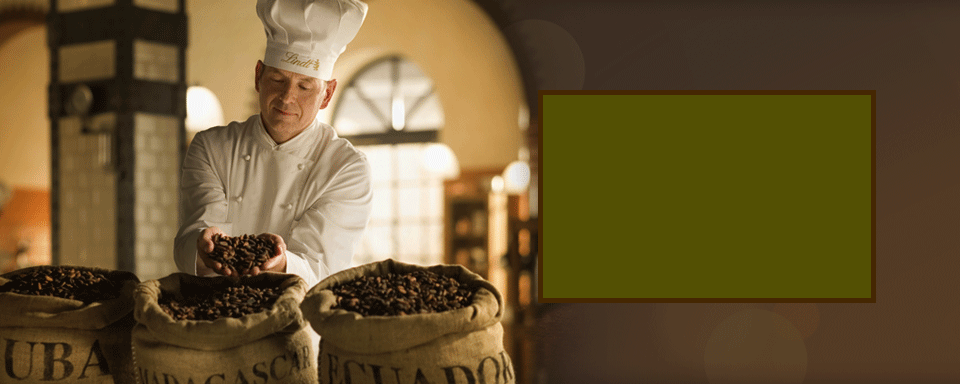
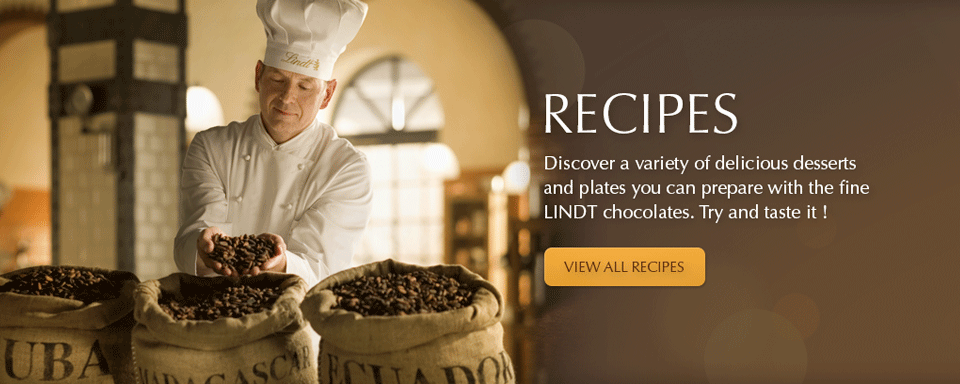
Best version

Changed region(s): [[0.5625, 0.2188, 0.9375, 0.8125]]

diff --git a/index - copie.html b/index - copie.html
@@ -8,6 +8,8 @@
 
 <script src="https://maxcdn.bootstrapcdn.com/bootstrap/3.3.7/js/bootstrap.min.js" integrity="sha384-Tc5IQib027qvyjSMfHjOMaLkfuWVxZxUPnCJA7l2mCWNIpG9mGCD8wGNIcPD7Txa" crossorigin="anonymous"></script>
 
+<link rel="stylesheet" type="text/css" href="style.css">
+
 </head>
 <body>
 <nav class="navbar navbar-default navbar-fixed-top">
@@ -15,9 +17,10 @@
     <a href="index.html" class="navbar-brand">WORLD OF LINDT</a>
 
     <ul class="nav navbar-nav"> 
-        <li class="active"><a href="#">Shop of chocolate</a></li>
-        <li><a href="#">Sustainability</a></li> 
-        <li><a href="#">History</a></li> </ul>
+        <li><a href="#">SHOP OF CHOCOLATE</a></li>
+        <li><a href="#">SUSTAINABILITY</a></li>
+        <li><a href="#">HISTORY</a></li>
+    </ul>
 <form class="navbar-form navbar-left pull-right" role="search">
   <div class="form-group">
     <input type="text" class="form-control" placeholder="Search">
@@ -28,44 +31,24 @@
   </div>
 </nav>
 
-<link rel="stylesheet" type="text/css" href="style.css">
-</head>
 <div id="menu">
-        	<ul>
-        	<I>
-            	<li class="menuitem"><a href="#/">Chocolate shop</a></li>
-                <li class="menuitem"><a href="#">World of Lindt</a></li>
-                <li class="menuitem"><a href="">Sustainability</a></li>
-                <li class="menuitem"><a href="#">New</a></li>
-                <li class="menuitem"><a href="#">Recipes</a></li>
-              <li class="menuitem"><a href="#">Gift Ideas</a></li>
-              </I>
-            </ul>
-<img src="Unknown.jpeg">
-<div class="logo">
+    <ul>
+		<li class="menuitem"><a href="#/">Chocolate shop</a></li>
+		<li class="menuitem"><a href="#">World of Lindt</a></li>
+		<li class="menuitem"><a href="">Sustainability</a></li>
+		<li class="menuitem"><a href="#">New</a></li>
+		<li class="menuitem"><a href="#">Recipes</a></li>
+		<li class="menuitem"><a href="#">Gift Ideas</a></li>
+    </ul>
+	<img src="Unknown.jpeg" >
 </div>
-<ul id="menu_horizontal">
-</div>
-<center>
-<img src=maxresdefault.jpg>
-</center>
-<I>
-<h3> DISCOVER OUR NEW FUSION OF FLAVOURS</h3>
-</I>
-<center>
-<img src=home_recipes_image.png>
-</center>
-<I>
-<p> EVERYDAY WITH EXCELLENCE </p>
-</I>
-<style>
-h1,h2{
-	display:inline;
-}</style>
-</head>
-<I>
-</I>
+<br>
+<img src="maxresdefault.jpg" class="responsive-img col-xs-12">
+<br>
+<h3> Discover our new fusion of flavours</h3>
+<br>
+<img src="home_recipes_image.png" class="responsive-img col-xs-12">
+<img src="photos.png" class="responsive-img col-xs-12">
 </body>
 </html>
-<img src="photos.png">
 

diff --git a/style.css b/style.css
@@ -36,17 +36,22 @@ list-style-type : none;
     display:block;
     padding:0 10px;
 }
- 
+
+.navbar-default .navbar-nav>li>a {
+	background-color: #f8f8f8;
+}
+
 .main{
     height:560px;
     background:#f8f9f6;
 }
-h3 { color: white; }
+h3 { color: white;
+	font-weight: 300;
+}
 p {color: white;}
 h4 { color: white; }
-"accueil.php" { text-align: center}
 h2 { text-align: center}
-h3 {text-align:center}
+h3 {text-align:center;}
 h4{text-align: center}
 p{text-align:center}
 .logo img{
